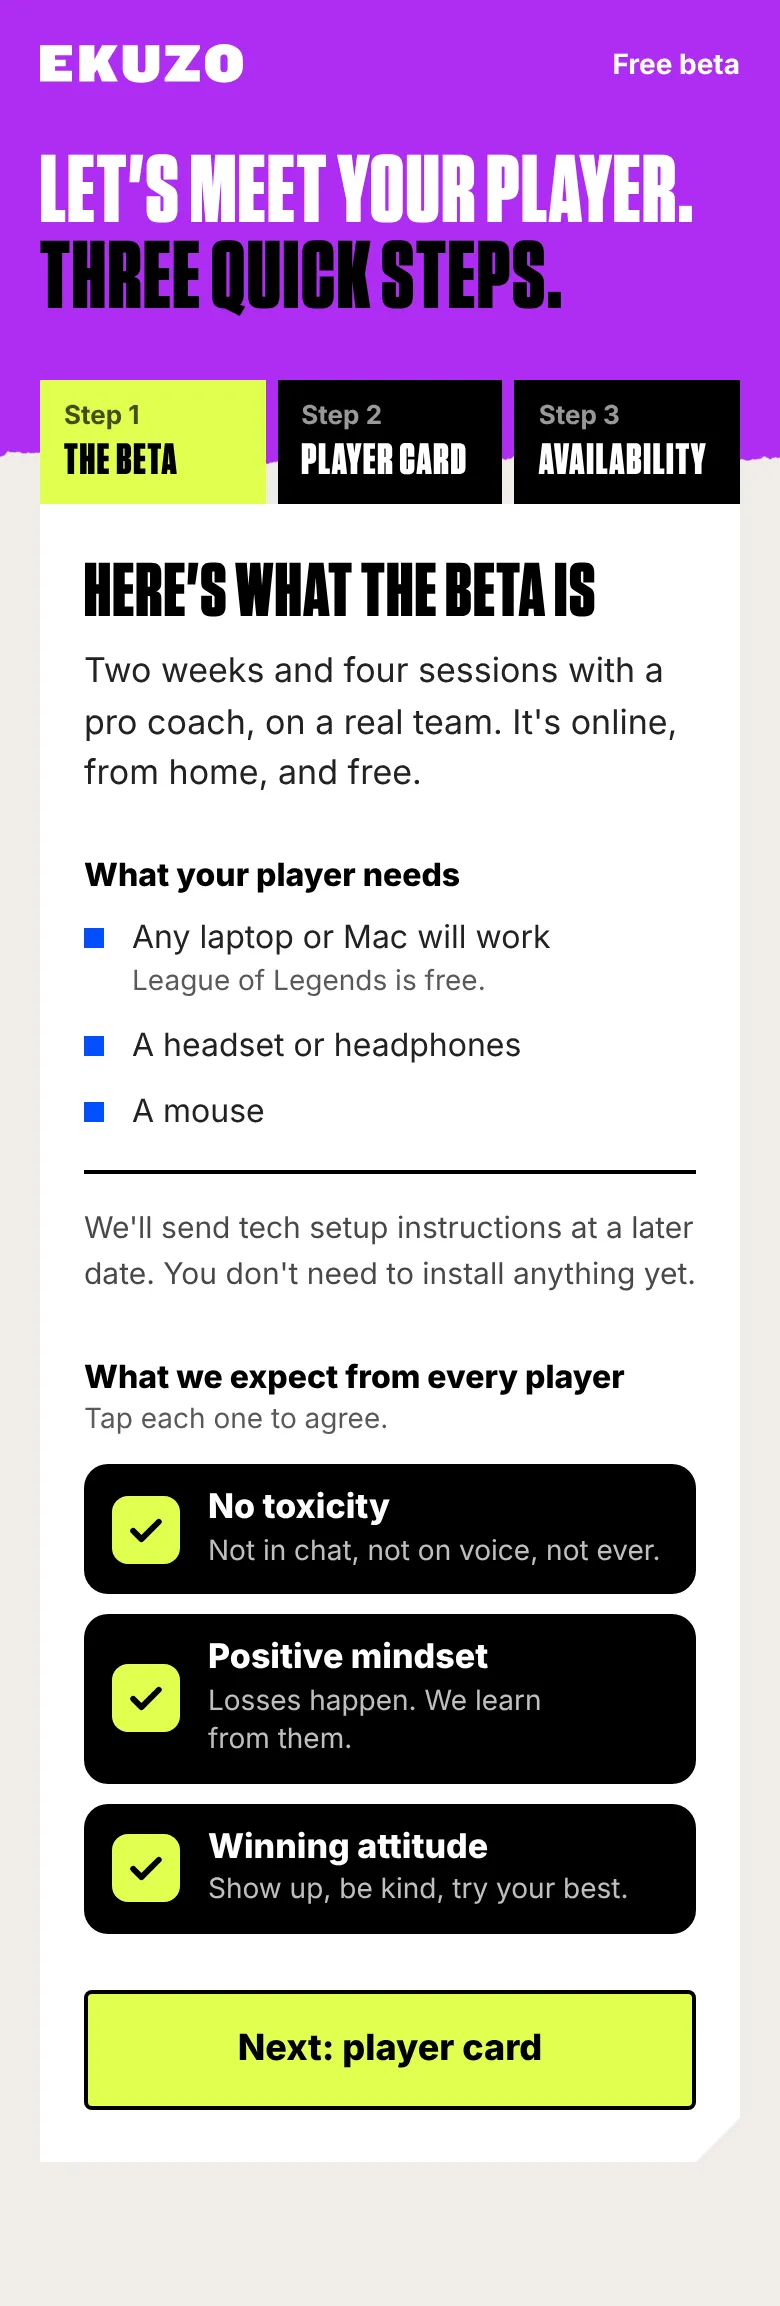
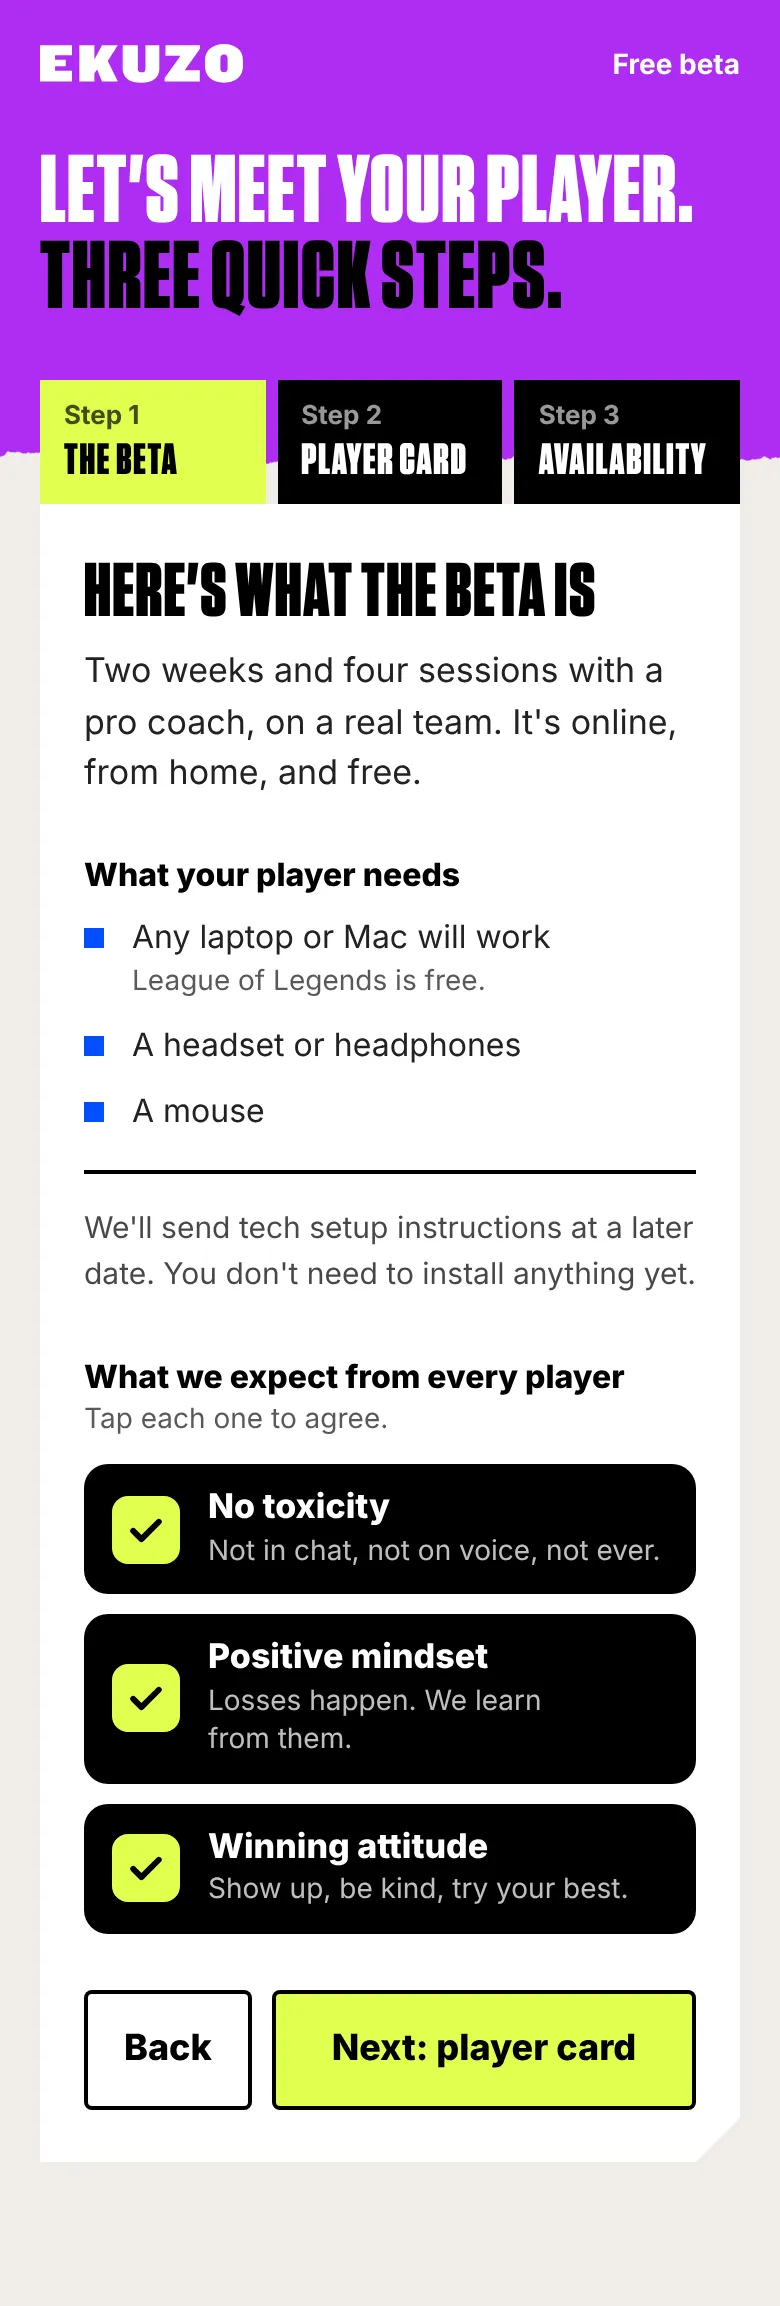
BETA wizard: Back buttons on the email screen and step 1
Claude-Session: https://claude.ai/code/session_01543UG8e9JwTD5Qg5aKwmc9

Changed region(s): [[0.0923, 0.843, 0.8308, 0.9367]]

diff --git a/app/season1/beta/start/start.html b/app/season1/beta/start/start.html
@@ -108,7 +108,7 @@ main{position:relative;z-index:2;max-width:680px;margin:-56px auto 0;padding:0 2
 .btn{display:flex;align-items:center;justify-content:center;flex:1;min-height:60px;background:var(--lime);color:var(--black);font:800 18px var(--body);padding:14px 18px;border:0;border-radius:4px;cursor:pointer;box-shadow:inset 0 0 0 2px var(--black);transition:background .15s}
 .btn:hover{background:#cdf03a}
 .btn:active{background:#bfe22f}
-.btn.back{flex:0 0 auto;background:#fff;padding-inline:20px}
+.btn.back{flex:0 0 auto;background:#fff;padding-inline:20px;text-decoration:none}
 .btn.back:hover{background:var(--off)}
 .ask{font-size:15px;text-align:center;margin-top:20px;color:rgba(0,0,0,.7)}
 .ask a{font-weight:800;color:var(--black);text-underline-offset:3px;display:inline-flex;min-height:44px;align-items:center}
@@ -156,7 +156,7 @@ main{position:relative;z-index:2;max-width:680px;margin:-56px auto 0;padding:0 2
 <h2 class="d" tabindex="-1">Get started</h2>
 <p class="lede">What's your email? It's how we reach you about your player's spot.</p>
 <div class="q" id="q-email"><label for="email">Your email</label><input id="email" name="email" type="email" autocomplete="email" inputmode="email" autocapitalize="off" autocorrect="off" spellcheck="false" enterkeyhint="next" required><p class="err">Check the email address and try again.</p></div>
-<div class="acts"><button class="btn" type="button" data-next>Continue</button></div>
+<div class="acts"><a class="btn back" id="leave" href="/season1/beta/launch">Back</a><button class="btn" type="button" data-next>Continue</button></div>
 </section>
 
 <section data-step="0" hidden>
@@ -176,7 +176,7 @@ main{position:relative;z-index:2;max-width:680px;margin:-56px auto 0;padding:0 2
 <label><input type="checkbox" name="vow" value="Positive mindset"><span class="box" aria-hidden="true"><svg viewBox="0 0 24 24"><path d="M5 12.5l4.5 4.5L19 7.5"/></svg></span><span><b>Positive mindset</b><small>Losses happen. We learn from them.</small></span></label>
 <label><input type="checkbox" name="vow" value="Winning attitude"><span class="box" aria-hidden="true"><svg viewBox="0 0 24 24"><path d="M5 12.5l4.5 4.5L19 7.5"/></svg></span><span><b>Winning attitude</b><small>Show up, be kind, try your best.</small></span></label>
 </div><p class="err">Tap all three to continue.</p></fieldset>
-<div class="acts"><button class="btn" type="button" data-next>Next: player card</button></div>
+<div class="acts"><button class="btn back" type="button" data-back>Back</button><button class="btn" type="button" data-next>Next: player card</button></div>
 </section>
 
 <section data-step="1" hidden>
@@ -278,6 +278,12 @@ main{position:relative;z-index:2;max-width:680px;margin:-56px auto 0;padding:0 2
     if(first){ var t=first.querySelector("input,select"); if(t) t.focus(); first.scrollIntoView({block:"center"}); }
     return !first;
   }
+  // Back on the first screen: return to the page the parent came from when it was one of ours
+  // (the BETA page or the beta launch page); otherwise the link's own address, the launch page.
+  document.getElementById("leave").addEventListener("click",function(e){
+    var from=""; try{ from=new URL(document.referrer).origin }catch(_){}
+    if(from===location.origin&&history.length>1){ e.preventDefault(); history.back(); }
+  });
   f.addEventListener("click",function(e){
     var b=e.target.closest("button"); if(!b) return;
     if(b.hasAttribute("data-next")){ if(check(cur)) show(cur+1); }

diff --git a/WORKLOG.md b/WORKLOG.md
@@ -24,6 +24,7 @@ Goal (Aaron): get the BETA flow live so a few people can try it. **Jamie: read `
 - Reaction test pad is blue at rest instead of black.
 - Beta lab: third email drafted ("After the wizard", Klaviyo, no promise of a spot, `[date]` to set), wizard invite shows the live link, open items updated.
 - Beta lab refreshed later the same day: page screens retaken with the current headline plus two new ones ("What parents say", "No toxic lobbies"), ad captions and open items brought up to date.
+- Wizard Back buttons (later, Aaron): the email screen has Back (returns to the page the parent came from, else `/season1/beta/launch`), and step 1 has Back to the email screen. Steps 2 and 3 already had it.
 - **Checked:** wizard end to end at 390 and 1440 on a local preview; the save call against a mocked `/api/season-one` on a faked ekuzo.gg host (200 shows the end state, 400 shows the error and stays on step 3). **Not run:** the repo test suite, and no real write.
 
 ## Aaron's Claude, 2026-11-12: BETA wizard, expectations and a lighter player card (dev)
